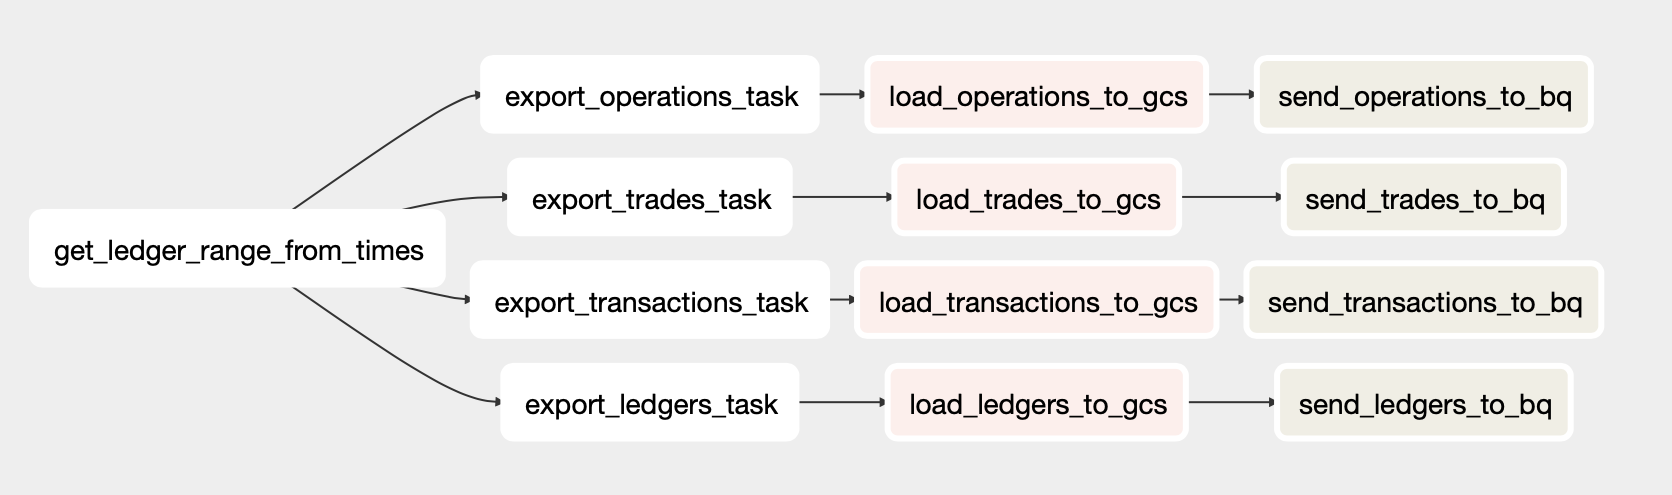
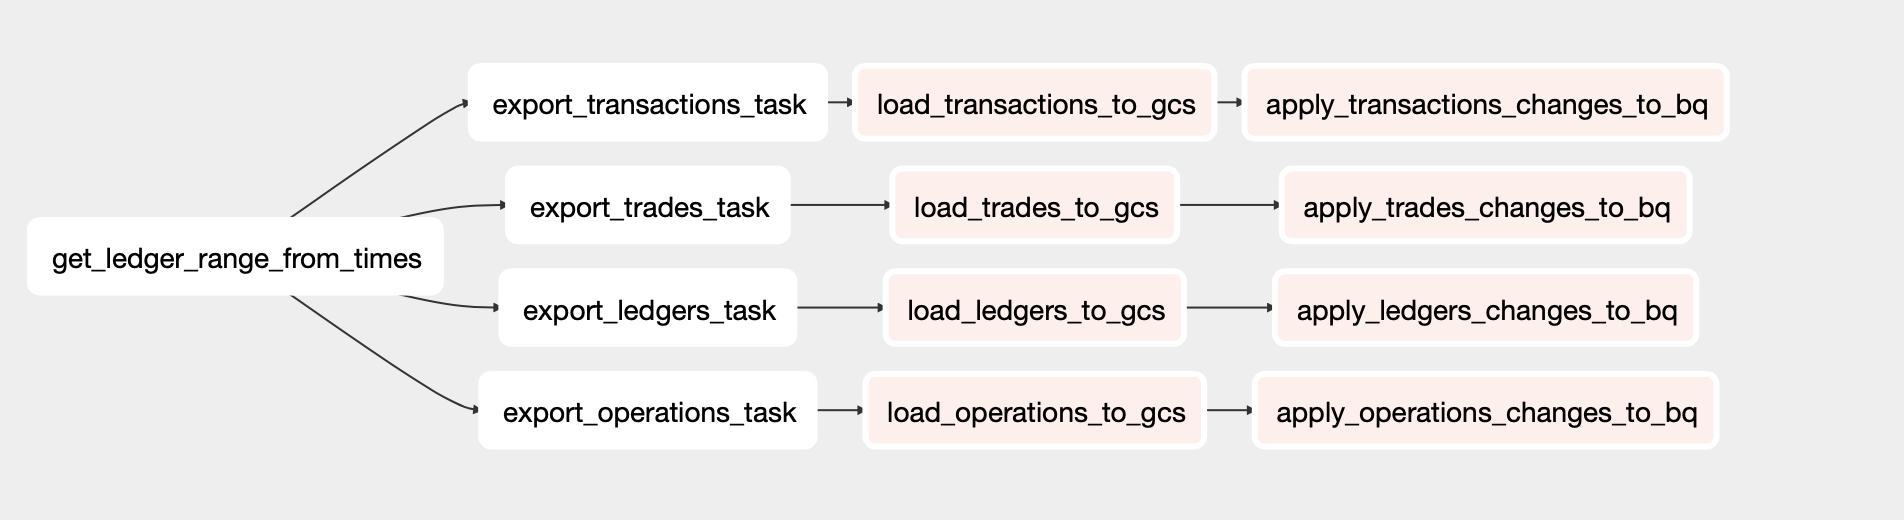
Fix duplicate information in BigQuery (#56)
* Switched archive DAG to use apply tasks

* Updated DAG diagram

diff --git a/dags/stellar_etl_airflow/build_apply_gcs_changes_to_bq_task.py b/dags/stellar_etl_airflow/build_apply_gcs_changes_to_bq_task.py
@@ -49,6 +49,10 @@ def generate_insert_query(schema, source_table_alias):
     Returns:
         the insert query
     '''
+    # trades have an order field, which is also a SQL keyword. BigQuery interprets `order` as the column
+    for field in schema:
+        if field['name'] == 'order':
+            field['name'] = '`order`'
 
     insert_list = ', '.join([field['name'] for field in schema])
     return f'INSERT ({insert_list}) VALUES ({insert_list})'
@@ -70,7 +74,8 @@ def generate_update_query(schema, source_table_alias):
 def generate_equality_comparison(data_type, source_table_alias, dest_table_alias):
     '''
     Generates the equality comparison used to determine if two rows are the same.
-    Data types should be: 'accounts', 'offers', 'trustlines', 'dimAccounts', 'dimOffers', or 'dimMarkets'. 
+    Data types should be: 'accounts', 'offers', 'trustlines', 'ledgers', 'transactions', 'operations',
+    'trades', 'dimAccounts', 'dimOffers', or 'dimMarkets'. 
     Parameters:
         data_type - type of the data being uploaded; should be string
         source_table_alias - the name of the table being used as a data source
@@ -87,7 +92,11 @@ def generate_equality_comparison(data_type, source_table_alias, dest_table_alias
         AND {dest_table_alias}.asset_issuer = {source_table_alias}.asset_issuer AND {dest_table_alias}.asset_code = {source_table_alias}.asset_code',
         'dimAccounts': f'{dest_table_alias}.account_id = {source_table_alias}.account_id',
         'dimOffers': f'{dest_table_alias}.dim_offer_id = {source_table_alias}.dim_offer_id',
-        'dimMarkets': f'{dest_table_alias}.market_id = {source_table_alias}.market_id'
+        'dimMarkets': f'{dest_table_alias}.market_id = {source_table_alias}.market_id',
+        'ledgers': f'{dest_table_alias}.ledger_hash = {source_table_alias}.ledger_hash',
+        'transactions': f'{dest_table_alias}.transaction_hash = {source_table_alias}.transaction_hash',
+        'operations': f'{dest_table_alias}.id = {source_table_alias}.id',
+        'trades': f'{dest_table_alias}.history_operation_id = {source_table_alias}.history_operation_id AND {dest_table_alias}.order = {source_table_alias}.order'
     }
 
     equality_comparison = switch.get(data_type, 'No comparison')
@@ -130,7 +139,8 @@ def create_merge_query(temp_table_id, data_type, schema_fields):
 
 def create_insert_unique_query(temp_table_id, data_type, schema_fields):
     '''
-    Creates the string representation of the insert unique query. Data types should be: 'dimAccounts', 'dimOffers', or 'dimMarkets'. 
+    Creates the string representation of the insert unique query. Data types should be: 'ledgers', 
+    'transactions', 'operations', 'trades', 'dimAccounts', 'dimOffers', or 'dimMarkets'. 
     
     Parameters:
         temp_table_id - the id of the temporary table where the external data is located 
@@ -160,7 +170,8 @@ def apply_gcs_changes(data_type, **kwargs):
     '''
     Sets up a file in Google Cloud Storage as an temporary table, and merges it with an existing table in BigQuery.
     The file's location in GCS is retrieved through XCOM, and the schema for the temporary table is loaded from GCS.
-    Data types should be: 'accounts', 'offers', 'trustlines', 'dimAccounts', 'dimOffers', or 'dimMarkets'.
+    Data types should be: 'accounts', 'offers', 'trustlines', 'ledgers', 'transactions', 'operations',
+    'trades', 'dimAccounts', 'dimOffers', or 'dimMarkets'. 
 
     Parameters:
         data_type - type of the data being uploaded; should be string
@@ -175,7 +186,7 @@ def apply_gcs_changes(data_type, **kwargs):
     gcs_bucket_name = Variable.get('gcs_exported_data_bucket_name')
     gcs_filepath = kwargs['task_instance'].xcom_pull(task_ids=f'load_{data_type}_to_gcs')
     schema_dict = read_local_schema(data_type)
-    bq_schema_list = [bigquery.SchemaField(field['name'], field['type'], mode=field['mode']) for field in schema_dict] 
+    bq_schema_list = [bigquery.SchemaField.from_api_repr(field) for field in schema_dict]
 
     external_config = bigquery.ExternalConfig('NEWLINE_DELIMITED_JSON')
     external_config.source_uris = [f'gs://{gcs_bucket_name}/{gcs_filepath}']
@@ -199,7 +210,7 @@ def apply_gcs_changes(data_type, **kwargs):
     if data_type in ['accounts', 'offers', 'trustlines']:
         logging.info('Using merge query...')
         sql_query = create_merge_query(table_id, data_type, schema_dict)
-    elif data_type in ['dimAccounts', 'dimOffers', 'dimMarkets']:
+    elif data_type in ['ledgers', 'transactions', 'operations', 'trades', 'dimAccounts', 'dimOffers', 'dimMarkets']:
         logging.info('Using insert unique query...')
         sql_query = create_insert_unique_query(table_id, data_type, schema_dict)
     else:
@@ -221,7 +232,8 @@ def apply_gcs_changes(data_type, **kwargs):
 def build_apply_gcs_changes_to_bq_task(dag, data_type):
     '''
     Creates a task that applies changes from a Google Cloud Storage file to a BigQuery table.
-    Data types should be: 'accounts', 'offers', 'trustlines', 'dimAccounts', 'dimOffers', or 'dimMarkets'.
+    Data types should be: 'accounts', 'offers', 'trustlines', 'ledgers', 'transactions', 'operations',
+    'trades', 'dimAccounts', 'dimOffers', or 'dimMarkets'. 
     
     Parameters:
         dag - the parent dag

diff --git a/dags/history_archive_dag.py b/dags/history_archive_dag.py
@@ -7,7 +7,7 @@ from stellar_etl_airflow.build_export_task import build_export_task
 from stellar_etl_airflow.build_time_task import build_time_task
 from stellar_etl_airflow.default import get_default_dag_args
 from stellar_etl_airflow.build_load_task import build_load_task
-from stellar_etl_airflow.build_gcs_to_bq_task import build_gcs_to_bq_task
+from stellar_etl_airflow.build_apply_gcs_changes_to_bq_task import build_apply_gcs_changes_to_bq_task
 
 from airflow import DAG
 from airflow.models import Variable
@@ -50,12 +50,12 @@ load_trade_task = build_load_task(dag, 'trades', 'export_trades_task')
 
 '''
 The send tasks receive the location of the file in Google Cloud storage through Airflow's XCOM system.
-Then, the task appends the entries in the file to the corresponding table in BigQuery. 
+Then, the task merges the unique entries in the file into the corresponding table in BigQuery. 
 '''
-send_ledgers_to_bq_task = build_gcs_to_bq_task(dag, 'ledgers')
-send_txs_to_bq_task = build_gcs_to_bq_task(dag, 'transactions')
-send_ops_to_bq_task = build_gcs_to_bq_task(dag, 'operations')
-send_trades_to_bq_task = build_gcs_to_bq_task(dag, 'trades')
+send_ledgers_to_bq_task = build_apply_gcs_changes_to_bq_task(dag, 'ledgers')
+send_txs_to_bq_task = build_apply_gcs_changes_to_bq_task(dag, 'transactions')
+send_ops_to_bq_task = build_apply_gcs_changes_to_bq_task(dag, 'operations')
+send_trades_to_bq_task = build_apply_gcs_changes_to_bq_task(dag, 'trades')
 
 time_task >> ledger_export_task >> load_ledger_task >> send_ledgers_to_bq_task
 time_task >> tx_export_task >> load_tx_task  >> send_txs_to_bq_task
